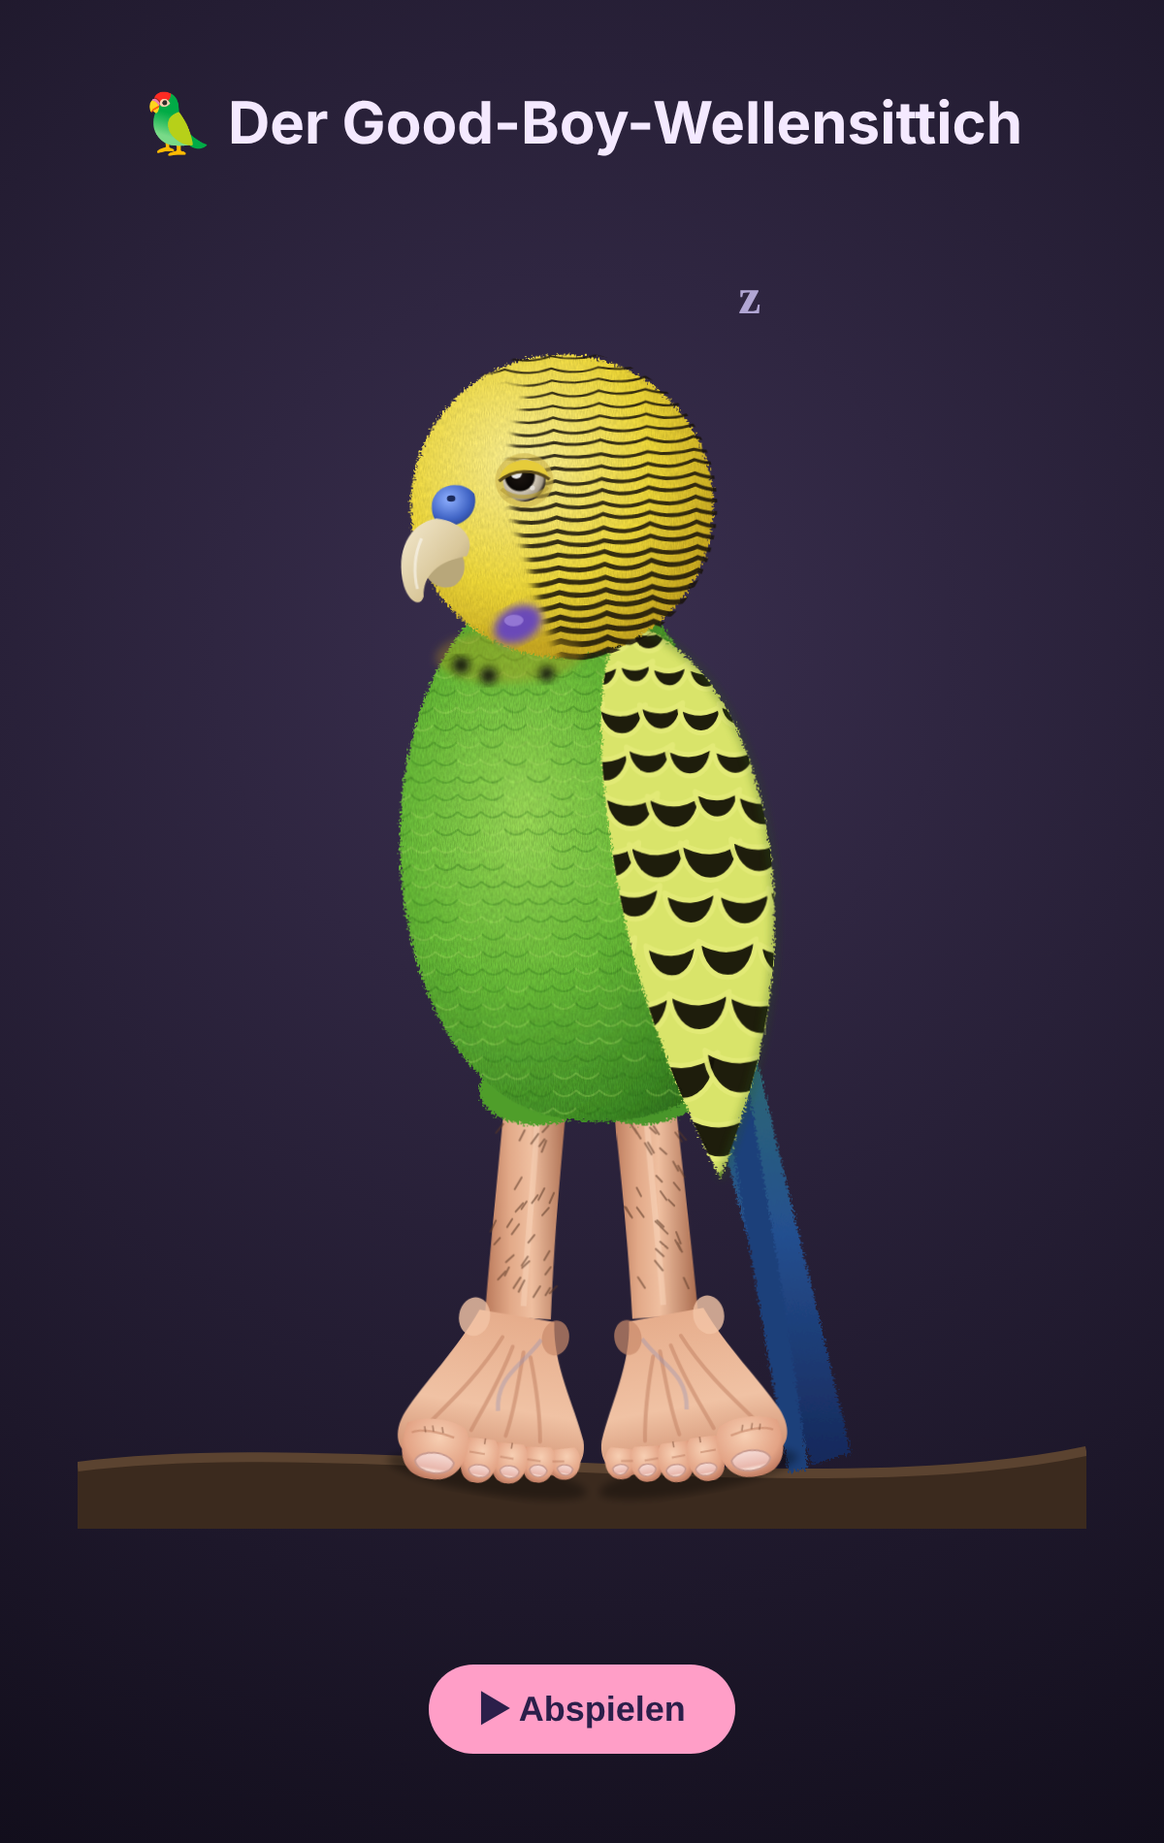
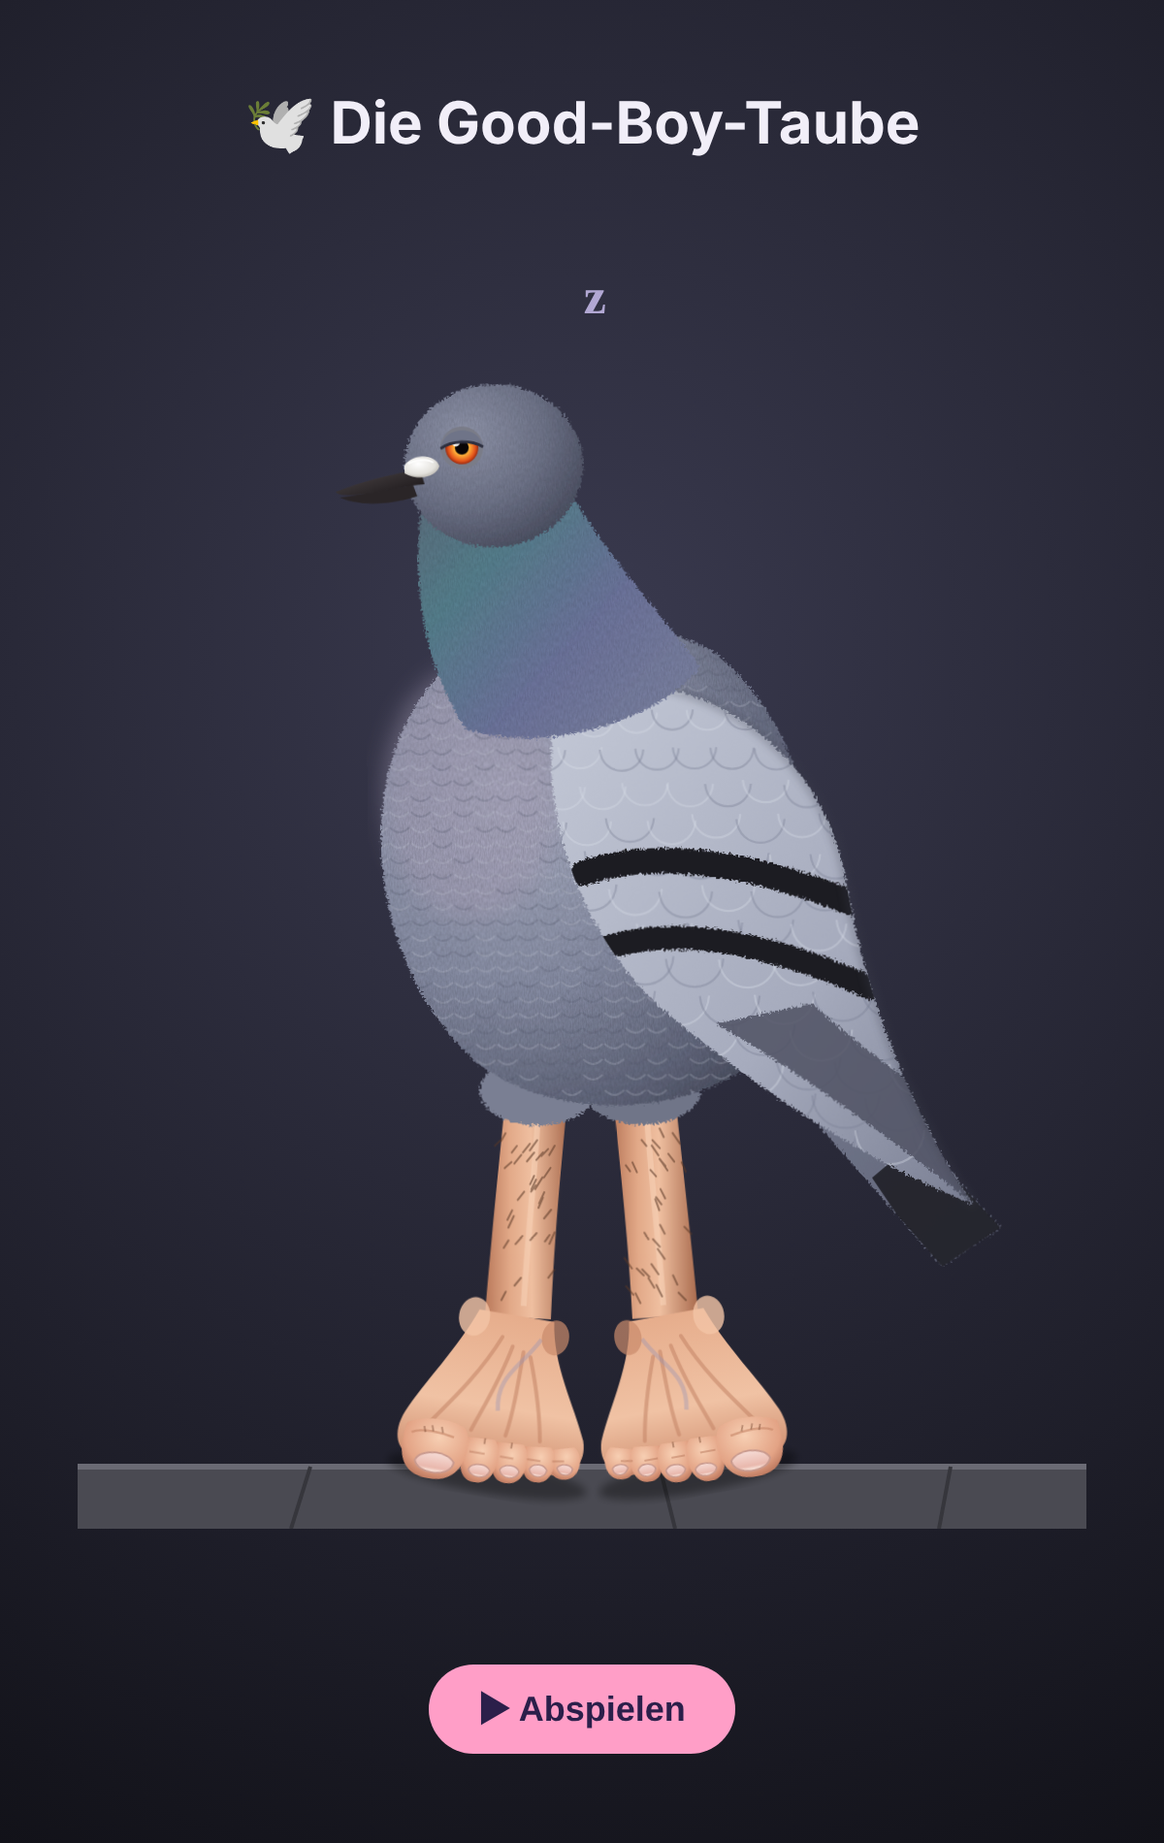
Turn the bird into a realistic street pigeon with human feet
Claude-Session: https://claude.ai/code/session_017nmDo75jFTM4fTYRAy3tMU

Changed region(s): [[0.0617, 0.1553, 0.9558, 0.8384], [0.1233, 0.0311, 0.8942, 0.0932], [0.6167, 0.1553, 0.6475, 0.1863]]

diff --git a/index.html b/index.html
@@ -3,9 +3,9 @@
 <head>
 <meta charset="utf-8">
 <meta name="viewport" content="width=device-width, initial-scale=1">
-<title>Good Boy Wellensittich</title>
+<title>Good Boy Taube</title>
 <style>
-  :root { --bg1:#3a2f4f; --bg2:#120e1c; --text:#f4e9ff; --accent:#ff9ec7; }
+  :root { --bg1:#3a3a4f; --bg2:#121219; --text:#f1eef8; --accent:#ff9ec7; }
   * { box-sizing: border-box; }
   body { margin:0; min-height:100vh; background:radial-gradient(circle at 50% 35%, var(--bg1), var(--bg2)); color:var(--text);
          font-family: system-ui, sans-serif; display:flex; flex-direction:column; align-items:center; justify-content:center; padding:16px; overflow-x:hidden; }
@@ -15,9 +15,9 @@
   #sub { min-height:2.4em; font-size:clamp(18px,4.5vw,26px); font-style:italic; color:var(--accent); text-align:center; }
   button { margin-top:8px; background:var(--accent); color:#2b1f4a; border:0; border-radius:999px; padding:12px 26px; font-size:18px; font-weight:700; cursor:pointer; }
   #bird { transform-origin: 260px 600px; animation: sway 5s ease-in-out infinite; }
-  @keyframes sway { 0%,100%{ transform:rotate(-1.8deg);} 50%{ transform:rotate(1.8deg);} }
-  #head { transform-origin: 255px 240px; animation: nod 6s ease-in-out infinite; }
-  @keyframes nod { 0%,100%{ transform:rotate(0);} 40%{ transform:rotate(-4deg) translateY(2px);} 70%{ transform:rotate(3deg);} }
+  @keyframes sway { 0%,100%{ transform:rotate(-1.5deg);} 50%{ transform:rotate(1.5deg);} }
+  #head { transform-origin: 235px 230px; animation: nod 6s ease-in-out infinite; }
+  @keyframes nod { 0%,100%{ transform:rotate(0);} 40%{ transform:rotate(-5deg) translateY(3px);} 70%{ transform:rotate(3deg);} }
   .toe { transform-box: fill-box; transform-origin: 50% 0; animation: toes 2.2s ease-in-out infinite; }
   @keyframes toes { 0%,100%{ transform:scaleY(1);} 50%{ transform:scaleY(.86);} }
   .z { font: 600 26px Georgia, serif; fill:#d8ccff; opacity:0; animation: zz 4s linear infinite; }
@@ -27,43 +27,51 @@
 </style>
 </head>
 <body>
-<h1>🦜 Der Good-Boy-Wellensittich</h1>
+<h1>🕊 Die Good-Boy-Taube</h1>
 <div id="stage" title="Klick mich">
-<svg viewBox="0 0 520 700" aria-label="Verschlafener Wellensittich mit Menschenfüßen">
+<svg viewBox="0 0 520 700" aria-label="Verschlafene Stadttaube mit Menschenfüßen">
 <defs>
-  <!-- flauschige Federkanten -->
   <filter id="fluff" x="-10%" y="-10%" width="120%" height="120%">
-    <feTurbulence type="fractalNoise" baseFrequency="0.9" numOctaves="2" seed="3" result="n"/>
-    <feDisplacementMap in="SourceGraphic" in2="n" scale="5" xChannelSelector="R" yChannelSelector="G"/>
+    <feTurbulence type="fractalNoise" baseFrequency="0.8" numOctaves="2" seed="3" result="n"/>
+    <feDisplacementMap in="SourceGraphic" in2="n" scale="4" xChannelSelector="R" yChannelSelector="G"/>
   </filter>
-  <!-- feine Federstruktur -->
   <filter id="grain" x="0" y="0" width="100%" height="100%">
-    <feTurbulence type="fractalNoise" baseFrequency="1.6 0.35" numOctaves="3" seed="8" result="t"/>
-    <feColorMatrix in="t" type="matrix" values="0 0 0 0 0  0 0 0 0 0  0 0 0 0 0  0 0 0 0.55 -0.12" result="a"/>
+    <feTurbulence type="fractalNoise" baseFrequency="1.4 0.4" numOctaves="3" seed="8" result="t"/>
+    <feColorMatrix in="t" type="matrix" values="0 0 0 0 0  0 0 0 0 0  0 0 0 0 0  0 0 0 0.5 -0.12" result="a"/>
     <feComposite in="a" in2="SourceGraphic" operator="in"/>
   </filter>
   <filter id="soft"><feGaussianBlur stdDeviation="6"/></filter>
   <filter id="soft2"><feGaussianBlur stdDeviation="2"/></filter>
+  <filter id="soft4"><feGaussianBlur stdDeviation="4"/></filter>
 
-  <radialGradient id="bodyG" cx="35%" cy="40%" r="75%">
-    <stop offset="0" stop-color="#9fe05a"/><stop offset=".45" stop-color="#6cc23a"/>
-    <stop offset=".85" stop-color="#3f8f25"/><stop offset="1" stop-color="#2c6a1b"/>
+  <radialGradient id="bodyG" cx="30%" cy="35%" r="80%">
+    <stop offset="0" stop-color="#a9aec2"/><stop offset=".5" stop-color="#868ca3"/>
+    <stop offset=".85" stop-color="#5f6479"/><stop offset="1" stop-color="#474b5c"/>
   </radialGradient>
-  <radialGradient id="headG" cx="38%" cy="35%" r="70%">
-    <stop offset="0" stop-color="#fff59a"/><stop offset=".6" stop-color="#f3dc3a"/><stop offset="1" stop-color="#c9a81e"/>
+  <radialGradient id="headG" cx="35%" cy="30%" r="75%">
+    <stop offset="0" stop-color="#8e93a8"/><stop offset=".6" stop-color="#6c7186"/><stop offset="1" stop-color="#4b4f61"/>
   </radialGradient>
-  <linearGradient id="tailG" x1="0" y1="0" x2="0" y2="1">
-    <stop offset="0" stop-color="#2f6f6a"/><stop offset=".5" stop-color="#244f8f"/><stop offset="1" stop-color="#16285a"/>
+  <linearGradient id="neckG" x1="0" y1="0" x2="1" y2="1">
+    <stop offset="0" stop-color="#5d6a7a"/>
+    <stop offset=".3" stop-color="#3f9a7c"><animate attributeName="stop-color" values="#3f9a7c;#7a4fa6;#3f9a7c" dur="5s" repeatCount="indefinite"/></stop>
+    <stop offset=".6" stop-color="#8a5aa8"><animate attributeName="stop-color" values="#8a5aa8;#3c9c86;#8a5aa8" dur="5s" repeatCount="indefinite"/></stop>
+    <stop offset="1" stop-color="#7d83a0"/>
+  </linearGradient>
+  <linearGradient id="wingG" x1="0" y1="0" x2="1" y2="1">
+    <stop offset="0" stop-color="#c3c8d6"/><stop offset=".6" stop-color="#a6abbd"/><stop offset="1" stop-color="#7a7f93"/>
+  </linearGradient>
+  <linearGradient id="tailG" x1="0" y1="0" x2="1" y2="1">
+    <stop offset="0" stop-color="#7d8296"/><stop offset="1" stop-color="#5c6074"/>
   </linearGradient>
   <linearGradient id="beakG" x1="0" y1="0" x2="1" y2="1">
-    <stop offset="0" stop-color="#f4ead0"/><stop offset=".6" stop-color="#d9c79a"/><stop offset="1" stop-color="#a8956a"/>
+    <stop offset="0" stop-color="#4a4446"/><stop offset=".7" stop-color="#2a2527"/><stop offset="1" stop-color="#191517"/>
   </linearGradient>
   <radialGradient id="cereG" cx="40%" cy="35%" r="70%">
-    <stop offset="0" stop-color="#8fb0ff"/><stop offset=".7" stop-color="#3f63c4"/><stop offset="1" stop-color="#2a4290"/>
+    <stop offset="0" stop-color="#ffffff"/><stop offset=".7" stop-color="#e3e1dc"/><stop offset="1" stop-color="#b9b5ad"/>
   </radialGradient>
-  <radialGradient id="eyeG" cx="40%" cy="40%" r="60%">
-    <stop offset="0" stop-color="#1b1410"/><stop offset=".55" stop-color="#0b0806"/>
-    <stop offset=".62" stop-color="#cfc6b4"/><stop offset=".9" stop-color="#a49a88"/><stop offset="1" stop-color="#3a3228"/>
+  <radialGradient id="eyeG" cx="50%" cy="50%" r="50%">
+    <stop offset="0" stop-color="#0a0606"/><stop offset=".38" stop-color="#0a0606"/>
+    <stop offset=".45" stop-color="#ffb23a"/><stop offset=".8" stop-color="#e5571c"/><stop offset="1" stop-color="#9c2b10"/>
   </radialGradient>
   <linearGradient id="skinShin" x1="0" y1="0" x2="1" y2="0">
     <stop offset="0" stop-color="#b9785a"/><stop offset=".3" stop-color="#e2a988"/>
@@ -79,17 +87,10 @@
     <stop offset="0" stop-color="#f6dcd6"/><stop offset=".75" stop-color="#e9b8ad"/><stop offset="1" stop-color="#fff4ec"/>
   </linearGradient>
 
-  <clipPath id="headClip"><circle cx="255" cy="172" r="78"/></clipPath>
-  <clipPath id="wingClip"><path id="wingPathC" d="M283 232 C342 248 366 330 360 410 C356 455 343 490 332 520 C312 480 289 425 279 360 C271 308 268 262 283 232Z"/></clipPath>
-  <clipPath id="bodyClip"><path d="M208 228 C150 290 158 425 215 472 C245 498 302 496 332 468 C364 424 354 300 302 232 Z"/></clipPath>
-  <!-- Bänderung nur am Hinterkopf, nicht in der gelben Maske -->
-  <mask id="barMask">
-    <rect width="520" height="700" fill="#000"/>
-    <circle cx="255" cy="172" r="80" fill="#fff"/>
-    <path d="M150 140 C175 95 215 92 240 112 C226 140 224 170 236 196 C240 222 248 250 262 268 L150 280Z" fill="#000" filter="url(#soft2)"/>
-  </mask>
+  <clipPath id="wingClip"><path d="M250 268 C320 250 388 298 398 370 C408 430 432 490 462 534 C412 514 350 474 302 432 C258 392 236 322 250 268Z"/></clipPath>
+  <clipPath id="tailClip"><path d="M330 432 L446 566 L476 546 L364 424Z"/></clipPath>
+  <clipPath id="bodyClip"><path d="M196 252 C140 300 148 405 205 458 C246 492 322 490 362 450 C396 410 392 300 332 250 C300 228 228 228 196 252Z"/></clipPath>
 
-  <!-- Fuß, Großzeh auf +x-Seite -->
   <g id="foot">
     <ellipse cx="2" cy="78" rx="52" ry="9" fill="#000" opacity=".35" filter="url(#soft2)"/>
     <path d="M-19 -6 C-22 16 -36 34 -44 52 C-48 64 -40 72 -30 72 L40 74 C50 74 54 64 49 52 C42 36 28 16 20 -6 Z" fill="url(#skinFoot)"/>
@@ -126,17 +127,21 @@
       <path d="M28 60 l1 -3 M33 60 l1 -3 M37 61 l1 -3 M6 62 l0 -3 M-8 62 l0 -3"/>
     </g>
   </g>
+
 </defs>
 
-<!-- Ast -->
-<path d="M0 668 C140 650 380 690 520 660 L520 700 L0 700Z" fill="#3b2a1e"/>
-<path d="M0 668 C140 650 380 690 520 660" stroke="#5b4330" stroke-width="5" fill="none"/>
+<!-- Pflaster / Gehweg -->
+<path d="M0 668 L520 668 L520 700 L0 700Z" fill="#4a4a52"/>
+<path d="M0 668 L520 668" stroke="#6a6a74" stroke-width="3"/>
+<path d="M120 668 l-10 32 M300 668 l8 32 M450 668 l-6 32" stroke="#36363c" stroke-width="2"/>
 
 <g id="bird">
   <!-- Schwanz -->
   <g filter="url(#fluff)">
-    <path d="M318 430 C332 500 352 580 378 668 L398 662 C380 580 360 500 345 430Z" fill="url(#tailG)"/>
-    <path d="M328 432 C338 505 352 590 366 672 L376 670 C366 590 352 505 340 432Z" fill="#1d3f7a"/>
+    <path d="M330 432 L446 566 L476 546 L364 424Z" fill="url(#tailG)"/>
+  </g>
+  <g clip-path="url(#tailClip)">
+    <path d="M410 520 L470 470 L500 520 L450 580Z" fill="#1f1f26" opacity=".9"/>
   </g>
 
   <!-- Beine (Menschenbeine) -->
@@ -149,71 +154,68 @@
     <!-- Beinbehaarung -->
     <g stroke="#5a3826" stroke-width="1" opacity=".55" stroke-linecap="round" id="hair"></g>
     <!-- Federhosen -->
-    <ellipse cx="238" cy="474" rx="30" ry="18" fill="#4f9e2c" filter="url(#fluff)"/>
-    <ellipse cx="292" cy="474" rx="30" ry="18" fill="#4a962a" filter="url(#fluff)"/>
+    <ellipse cx="238" cy="474" rx="30" ry="18" fill="#7a7f93" filter="url(#fluff)"/>
+    <ellipse cx="292" cy="474" rx="30" ry="18" fill="#6f7488" filter="url(#fluff)"/>
     <use href="#foot" transform="translate(226 596) rotate(10) scale(-1 1)"/>
     <use href="#foot" transform="translate(304 596) rotate(-10)"/>
   </g>
 
+
   <!-- Körper -->
   <g filter="url(#fluff)">
-    <path d="M208 228 C150 290 158 425 215 472 C245 498 302 496 332 468 C364 424 354 300 302 232 Z" fill="url(#bodyG)"/>
+    <path d="M196 252 C140 300 148 405 205 458 C246 492 322 490 362 450 C396 410 392 300 332 250 C300 228 228 228 196 252Z" fill="url(#bodyG)"/>
   </g>
-  <g clip-path="url(#bodyClip)" id="chestFeathers" opacity=".5"></g>
-  <path d="M208 228 C150 290 158 425 215 472 C245 498 302 496 332 468 C364 424 354 300 302 232 Z" fill="#fff" filter="url(#grain)" opacity=".5"/>
+  <!-- rosig-graue Brust -->
+  <ellipse cx="205" cy="320" rx="45" ry="65" fill="#a59bb4" opacity=".45" filter="url(#soft)"/>
+  <g clip-path="url(#bodyClip)" id="chestFeathers" opacity=".45"></g>
+  <path d="M196 252 C140 300 148 405 205 458 C246 492 322 490 362 450 C396 410 392 300 332 250 C300 228 228 228 196 252Z" fill="#fff" filter="url(#grain)" opacity=".4"/>
 
   <!-- Flügel -->
   <g filter="url(#fluff)">
-    <path d="M283 232 C342 248 366 330 360 410 C356 455 343 490 332 520 C312 480 289 425 279 360 C271 308 268 262 283 232Z" fill="#d9e46a"/>
+    <path d="M250 268 C320 250 388 298 398 370 C408 430 432 490 462 534 C412 514 350 474 302 432 C258 392 236 322 250 268Z" fill="url(#wingG)"/>
   </g>
   <g clip-path="url(#wingClip)" id="wingFeathers"></g>
-  <path d="M283 232 C342 248 366 330 360 410 C356 455 343 490 332 520" stroke="#2b5418" stroke-width="3" fill="none" opacity=".4" filter="url(#soft2)"/>
+  <g clip-path="url(#wingClip)" filter="url(#fluff)">
+    <!-- zwei schwarze Flügelbinden -->
+    <path d="M262 362 C300 350 345 356 400 378" stroke="#1d1c22" stroke-width="13" fill="none" stroke-linecap="round"/>
+    <path d="M276 400 C312 390 356 398 410 422" stroke="#1d1c22" stroke-width="12" fill="none" stroke-linecap="round"/>
+    <!-- dunkle Handschwingen -->
+    <path d="M330 440 C380 470 420 500 470 540 L470 500 C430 470 400 450 380 430Z" fill="#4f5263" opacity=".85"/>
+  </g>
+  <path d="M250 268 C320 250 388 298 398 370 C408 430 432 490 462 534" stroke="#3c3f4e" stroke-width="3" fill="none" opacity=".4" filter="url(#soft2)"/>
 
-  <!-- Kopf -->
+  <!-- Kopf + Hals -->
   <g id="head">
     <g filter="url(#fluff)">
-      <circle cx="255" cy="172" r="78" fill="url(#headG)"/>
+      <path d="M182 168 C174 215 182 255 200 285 C240 300 300 285 322 258 C300 225 268 190 252 150 Z" fill="url(#neckG)"/>
     </g>
-    <g mask="url(#barMask)" id="headBars"></g>
-    <circle cx="255" cy="172" r="78" fill="#fff" filter="url(#grain)" opacity=".35" clip-path="url(#headClip)"/>
-    <!-- Kehlfleck-Schatten -->
-    <ellipse cx="225" cy="248" rx="38" ry="14" fill="#b8941a" opacity=".35" filter="url(#soft2)"/>
-
-    <!-- Wangenfleck violett -->
-    <ellipse cx="230" cy="232" rx="13" ry="9" transform="rotate(-25 230 232)" fill="#6a49b8" filter="url(#soft2)"/>
-    <ellipse cx="228" cy="230" rx="5" ry="3" fill="#a58ae0" opacity=".7"/>
-    <!-- Kehltupfen -->
-    <g fill="#111" filter="url(#soft2)" opacity=".9">
-      <circle cx="200" cy="252" r="4.5"/><circle cx="214" cy="258" r="4.5"/><circle cx="244" cy="258" r="4"/>
+    <path d="M182 168 C174 215 182 255 200 285 C240 300 300 285 322 258 C300 225 268 190 252 150 Z" fill="#fff" filter="url(#grain)" opacity=".35"/>
+    <g filter="url(#fluff)">
+      <ellipse cx="220" cy="150" rx="46" ry="42" fill="url(#headG)"/>
     </g>
-
+    <ellipse cx="220" cy="150" rx="46" ry="42" fill="#fff" filter="url(#grain)" opacity=".3"/>
     <!-- Auge -->
-    <g id="eye">
-      <ellipse cx="236" cy="158" rx="15" ry="14" fill="#c9b04a" opacity=".6"/>
-      <circle cx="236" cy="158" r="11" fill="url(#eyeG)"/>
-      <circle cx="232" cy="154" r="3" fill="#fff" opacity=".9"/>
-      <circle cx="240" cy="162" r="1.3" fill="#fff" opacity=".5"/>
-      <!-- Lider (halb geschlossen) -->
-      <path id="lidUp" d="M223 158 C225 144 247 144 249 158 Z" fill="#e6cc3a"/>
-      <path id="lidUpLine" d="M223 158 C230 152 242 152 249 158" stroke="#5b4a1a" stroke-width="1.6" fill="none"/>
-      <path d="M224 162 C230 168 242 168 248 162" stroke="#b8a03a" stroke-width="2" fill="none" opacity=".7"/>
+    <g>
+      <circle cx="204" cy="140" r="11" fill="#7a7c88"/>
+      <circle cx="204" cy="140" r="8.5" fill="url(#eyeG)"/>
+      <circle cx="201" cy="137" r="2.2" fill="#fff" opacity=".9"/>
+      <path id="lidUp" d="" fill="#6f7488"/>
+      <path id="lidUpLine" d="" stroke="#2e3040" stroke-width="1.4" fill="none"/>
     </g>
-
-    <!-- Wachshaut (blau = Männchen) -->
-    <path d="M188 168 C190 158 204 156 210 164 C212 172 206 180 196 180 C190 180 187 175 188 168Z" fill="url(#cereG)"/>
-    <ellipse cx="198" cy="166" rx="2.2" ry="1.6" fill="#1b2a5a"/>
     <!-- Schnabel -->
     <g id="beak">
-      <path id="lowerBeak" d="M181 196 C182 208 190 214 198 211 C204 207 205 200 202 194 Z" fill="#b8a77a"/>
-      <path d="M190 176 C176 178 168 192 172 210 C174 218 180 222 182 216 C182 205 190 198 205 196 C210 188 204 178 190 176Z" fill="url(#beakG)"/>
-      <path d="M182 186 C178 194 177 204 179 212" stroke="#fff" stroke-width="1.5" opacity=".5" fill="none"/>
+      <path id="lowerBeak" d="M178 158 C166 160 150 162 140 163 C150 168 166 168 180 164 Z" fill="#2a2527"/>
+      <path d="M182 150 C168 152 152 155 138 160 C140 163 150 162 160 161 C168 160 176 158 184 158 Z" fill="url(#beakG)"/>
+      <!-- weiße Wachshaut -->
+      <path d="M174 148 C178 142 190 142 192 149 C190 155 180 156 174 152Z" fill="url(#cereG)"/>
+      <path d="M176 147 C180 145 186 145 189 147" stroke="#fff" stroke-width="1" opacity=".8" fill="none"/>
     </g>
   </g>
 </g>
 
-<text class="z" x="330" y="95">z</text>
-<text class="z" x="345" y="80">z</text>
-<text class="z" x="320" y="75">Z</text>
+<text class="z" x="250" y="95">z</text>
+<text class="z" x="265" y="80">z</text>
+<text class="z" x="240" y="75">Z</text>
 </svg>
 </div>
 <div id="sub"></div>
@@ -223,43 +225,26 @@
 <script>
   const NS = 'http://www.w3.org/2000/svg';
   const el = (tag, attrs, parent) => { const e = document.createElementNS(NS, tag); for (const k in attrs) e.setAttribute(k, attrs[k]); parent.appendChild(e); return e; };
-  let seed = 7; const rnd = () => (seed = (seed * 16807) % 2147483647) / 2147483647;
+  let seed = 11; const rnd = () => (seed = (seed * 16807) % 2147483647) / 2147483647;
 
-  // Wellenbänderung am Hinterkopf
-  const bars = document.getElementById('headBars');
-  for (let y = 94; y < 262; y += 6.5) {
-    const w = 0.9 + (y - 94) / 75;
-    const bend = (y - 94) * 0.12;
-    let d = `M180 ${y}`;
-    for (let x = 180; x < 345; x += 24) d += ` Q${x + 12} ${y + 3 + rnd() * 2 - bend * 0.1} ${x + 24} ${y + (x - 180) / 165 * bend * -0.4 + rnd()}`;
-    el('path', { d, stroke: '#17120a', 'stroke-width': w.toFixed(1), fill: 'none', opacity: .85, 'stroke-linecap': 'round' }, bars);
-  }
-
-  // Flügelfedern: schwarze Mitte, gelbgrüner Saum, obere Reihen überlappen untere
+  // Deckfedern am Flügel: hellgraue Schuppen mit dunklerem Rand
   const wing = document.getElementById('wingFeathers');
-  const rows = [];
-  for (let r = 0; r < 14; r++) rows.push(r);
-  rows.reverse().forEach(r => {
-    const y = 236 + r * 19 + r * r * 0.6;
-    const fw = 9 + r * 0.9, fh = 14 + r * 1.6;
-    for (let x = 262 + (r % 2) * fw; x < 372; x += fw * 1.9) {
-      const dark = r > 10 ? '#1d2a14' : '#151208';
-      const edge = r > 10 ? '#7a9a3a' : '#e3ea78';
-      const jx = (rnd() - .5) * 4, jy = (rnd() - .5) * 4, s = 0.85 + rnd() * 0.3;
-      const a = fw * s, h = fh * s, cx = x + jx, cy = y + jy;
-      el('path', { d: `M${cx - a} ${cy} C${cx - a * .9} ${cy + h} ${cx + a * .9} ${cy + h * 1.05} ${cx + a} ${cy - 1} C${cx + a * .3} ${cy + h * .25} ${cx - a * .3} ${cy + h * .25} ${cx - a} ${cy} Z`,
-        fill: dark, stroke: edge, 'stroke-width': r > 10 ? 1.5 : 2.6, 'stroke-linejoin': 'round', opacity: .95 }, wing);
+  for (let r = 13; r >= 0; r--) {
+    const y = 262 + r * 18;
+    const fw = 10 + r * 0.6, fh = 13 + r * 0.8;
+    for (let x = 240 + (r % 2) * fw; x < 470; x += fw * 1.8) {
+      const cx = x + (rnd() - .5) * 4, cy = y + (rnd() - .5) * 4;
+      el('path', { d: `M${cx - fw} ${cy} C${cx - fw * .9} ${cy + fh} ${cx + fw * .9} ${cy + fh} ${cx + fw} ${cy}`,
+        stroke: rnd() > .5 ? '#7c8195' : '#d6dae4', 'stroke-width': 1.1, fill: 'none', opacity: .38 }, wing);
     }
-  });
-
+  }
   // feine Brustfedern
   const chest = document.getElementById('chestFeathers');
-  for (let y = 240; y < 490; y += 9) for (let x = 150; x < 360; x += 12) {
-    const xx = x + (y % 18 ? 6 : 0);
-    el('path', { d: `M${xx - 6} ${y} Q${xx} ${y + 6} ${xx + 6} ${y}`, stroke: rnd() > .5 ? '#2f7a1c' : '#b6ee6c',
-      'stroke-width': 1, fill: 'none', opacity: .6 }, chest);
+  for (let y = 250; y < 490; y += 8) for (let x = 140; x < 400; x += 11) {
+    const xx = x + (y % 16 ? 5.5 : 0);
+    el('path', { d: `M${xx - 5} ${y} Q${xx} ${y + 5} ${xx + 5} ${y}`, stroke: rnd() > .5 ? '#5a5f72' : '#c4c8d6',
+      'stroke-width': 1, fill: 'none', opacity: .55 }, chest);
   }
-
   // Beinhaare
   const hair = document.getElementById('hair');
   for (let i = 0; i < 60; i++) {
@@ -268,7 +253,7 @@
     el('path', { d: `M${x.toFixed(1)} ${y.toFixed(1)} l${(left ? -1 : 1) * (2 + rnd() * 2)} ${(3 + rnd() * 3).toFixed(1)}` }, hair);
   }
 
-  // Audio, Schnabel, Untertitel
+  // Audio, Schnabel, Lider, Untertitel
   const audio = document.getElementById('voice');
   const lowerBeak = document.getElementById('lowerBeak');
   const lidUp = document.getElementById('lidUp'), lidLine = document.getElementById('lidUpLine');
@@ -293,13 +278,12 @@
   let smooth = 0;
   function frame(t) {
     smooth += (level() - smooth) * 0.35;
-    lowerBeak.setAttribute('transform', `rotate(${(smooth * 28).toFixed(1)} 202 196)`);
-    // schläfriges Blinzeln: Lid meist halb zu, ab und zu ganz zu
+    lowerBeak.setAttribute('transform', `rotate(${(-smooth * 18).toFixed(1)} 180 160)`);
     const cyc = (t / 5200) % 1;
     const closed = cyc > 0.9 && cyc < 0.96 ? 1 : 0;
-    const lidY = 158 + closed * 11;
-    lidUp.setAttribute('d', `M223 158 C225 144 247 144 249 158 L249 ${lidY} C242 ${lidY - 6} 230 ${lidY - 6} 223 ${lidY} Z`);
-    lidLine.setAttribute('d', `M223 ${lidY} C230 ${lidY - 6} 242 ${lidY - 6} 249 ${lidY}`);
+    const ly = 140 + closed * 9;   // Lid hängt halb übers Auge = verschlafen
+    lidUp.setAttribute('d', `M193 140 C195 128 213 128 215 140 L215 ${ly} C209 ${ly - 4} 199 ${ly - 4} 193 ${ly} Z`);
+    lidLine.setAttribute('d', `M193 ${ly} C199 ${ly - 4} 209 ${ly - 4} 215 ${ly}`);
     if (!audio.paused) { let txt = ''; for (const [tm, l] of lines) if (audio.currentTime >= tm) txt = l; sub.textContent = txt; }
     requestAnimationFrame(frame);
   }
@@ -310,7 +294,7 @@
   }
   btn.addEventListener('click', play);
   document.getElementById('stage').addEventListener('click', play);
-  audio.addEventListener('ended', () => setTimeout(() => sub.textContent = 'z z z …', 400));
+  audio.addEventListener('ended', () => setTimeout(() => sub.textContent = 'gurr… z z z …', 400));
 </script>
 </body>
 </html>
